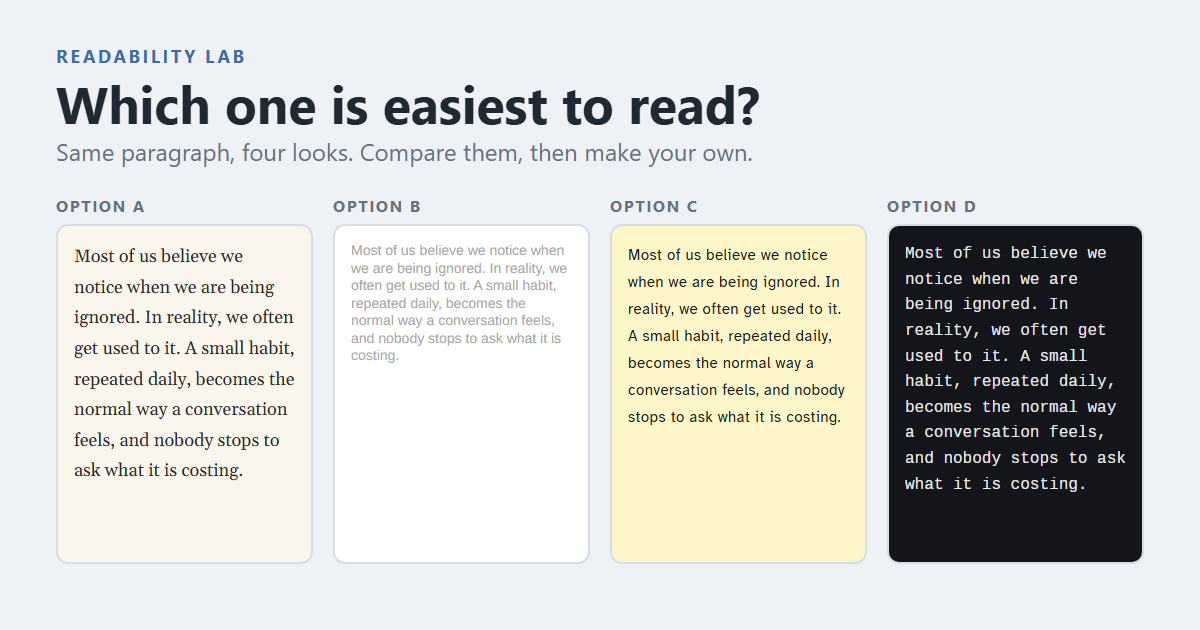
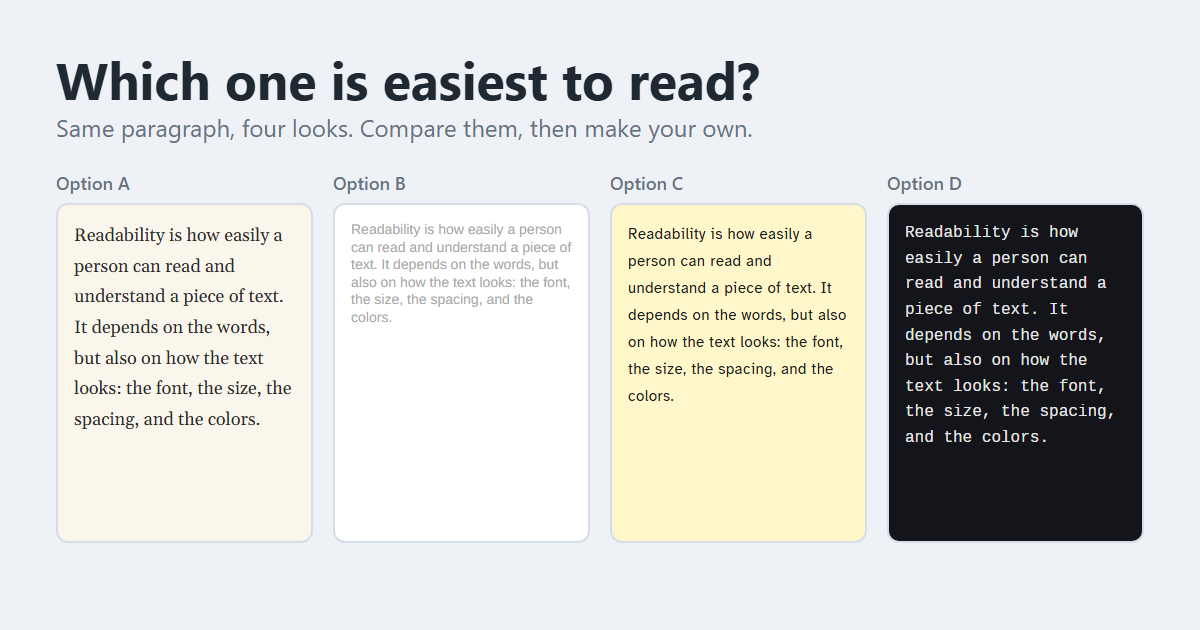
Update sample text, labels, and copy

Changed region(s): [[0.0308, 0.0603, 0.9558, 0.7841], [0.2775, 0.8444, 0.9558, 0.9048], [0.0617, 0.8444, 0.2467, 0.8746]]

diff --git a/index.html b/index.html
@@ -25,9 +25,8 @@
 
 <body>
   <main>
-    <div class="eyebrow">Readability Lab</div>
     <h1>Which one is easiest to read?</h1>
-    <p class="intro">Same paragraph, four looks. Read each one, then pick the one that takes the least effort.</p>
+    <p class="intro">Same paragraph, shown four ways. Which one is easiest on your eyes?</p>
 
     <div class="tab-bar" role="tablist">
       <button type="button" class="tab" id="compareTab" role="tab" aria-selected="true"
@@ -38,49 +37,47 @@
 
     <div id="comparePanel" role="tabpanel" aria-labelledby="compareTab">
       <div class="card" data-id="a">
-        <div class="card-label">OPTION A</div>
+        <div class="card-label">Option A</div>
         <div class="sample a">
-          <p>Most of us believe we notice when we are being ignored. In reality, we often get used to it. A small habit,
-            repeated daily, becomes the normal way a conversation feels, and nobody stops to ask what it is costing.</p>
+          <p>Readability is how easily a person can read and understand a piece of text. It depends on the words, but also on how the text looks: the font, the size, the spacing, and the colors.</p>
         </div>
       </div>
 
       <div class="card" data-id="b">
-        <div class="card-label">OPTION B</div>
+        <div class="card-label">Option B</div>
         <div class="sample b">
-          <p>Most of us believe we notice when we are being ignored. In reality, we often get used to it. A small habit,
-            repeated daily, becomes the normal way a conversation feels, and nobody stops to ask what it is costing.</p>
+          <p>Readability is how easily a person can read and understand a piece of text. It depends on the words, but also on how the text looks: the font, the size, the spacing, and the colors.</p>
         </div>
       </div>
 
       <div class="card" data-id="c">
-        <div class="card-label">OPTION C</div>
+        <div class="card-label">Option C</div>
         <div class="sample c">
-          <p>Most of us believe we notice when we are being ignored. In reality, we often get used to it. A small habit,
-            repeated daily, becomes the normal way a conversation feels, and nobody stops to ask what it is costing.</p>
+          <p>Readability is how easily a person can read and understand a piece of text. It depends on the words, but also on how the text looks: the font, the size, the spacing, and the colors.</p>
         </div>
       </div>
 
       <div class="card" data-id="d">
-        <div class="card-label">OPTION D</div>
+        <div class="card-label">Option D</div>
         <div class="sample d">
-          <p>Most of us believe we notice when we are being ignored. In reality, we often get used to it. A small habit,
-            repeated daily, becomes the normal way a conversation feels, and nobody stops to ask what it is costing.</p>
+          <p>Readability is how easily a person can read and understand a piece of text. It depends on the words, but also on how the text looks: the font, the size, the spacing, and the colors.</p>
         </div>
       </div>
 
-      <button type="button" class="next-button" id="nextButton">Now make your own</button>
+      <button type="button" class="next-button" id="nextButton">Try making your own</button>
     </div>
 
     <section class="tuner" id="tunerPanel" role="tabpanel" aria-labelledby="tunerTab" hidden>
-      <p class="intro">Change anything below until the paragraph feels comfortable to read.</p>
+      <p class="intro">Play with the settings until it's comfortable to read.</p>
 
-      <textarea class="tuner-sample" id="tunerSample" maxlength="600" rows="1" spellcheck="false"
-        aria-label="Sample text. Tap to edit it."></textarea>
+      <div class="sample-box" id="sampleBox">
+        <textarea class="tuner-sample" id="tunerSample" maxlength="600" rows="1" spellcheck="false"
+          aria-label="Sample text. Tap to edit it."></textarea>
+        <span class="char-count" id="charCount"></span>
+      </div>
       <div class="sample-hint">
-        <span>Tap the text above to edit it</span>
-        <span><button type="button" class="link-button" id="sampleResetButton">Use sample text</button>
-          <span id="charCount"></span></span>
+        <span>You can edit this text</span>
+        <button type="button" class="link-button" id="sampleResetButton">Reset text</button>
       </div>
 
       <div class="option-group">
@@ -173,8 +170,8 @@
         <div class="group-label">Your setup</div>
         <div class="setup-summary" id="setupSummary"></div>
         <button type="button" class="copy-button" id="copyButton">Copy my setup</button>
-        <button type="button" class="reset-button" id="resetButton">Reset to start</button>
-        <p class="copy-hint">Tap Copy, then paste it in our chat so I can see what works for you.</p>
+        <button type="button" class="reset-button" id="resetButton">Reset options</button>
+        <p class="copy-hint">Press Copy and send it to me. I'd like to see what you picked.</p>
       </div>
     </section>
 
@@ -224,10 +221,10 @@
 
     const setup = { ...defaultSetup };
 
-    const defaultSampleText = "Most of us believe we notice when we are being ignored. In reality, we often get used to it. " +
-      "A small habit, repeated daily, becomes the normal way a conversation feels, " +
-      "and nobody stops to ask what it is costing.";
+    const defaultSampleText = "Readability is how easily a person can read and understand a piece of text. " +
+      "It depends on the words, but also on how the text looks: the font, the size, the spacing, and the colors.";
 
+    const sampleBox = document.getElementById("sampleBox");
     const tunerSample = document.getElementById("tunerSample");
     const sampleResetButton = document.getElementById("sampleResetButton");
     const charCount = document.getElementById("charCount");
@@ -356,7 +353,11 @@
       tunerSample.style.lineHeight = setup.spacing;
       tunerSample.style.letterSpacing = setup.letterSpacing + "em";
       tunerSample.style.wordSpacing = setup.wordSpacing + "em";
-      tunerSample.style.maxWidth = setup.width + "ch";
+      sampleBox.style.fontFamily = fontFamilies[setup.font];
+      sampleBox.style.fontSize = setup.size + "px";
+      sampleBox.style.maxWidth = setup.width + "ch";
+      charCount.style.color = setup.textColor;
+      charCount.style.background = setup.backgroundColor;
       tunerSample.style.textAlign = setup.align;
       tunerSample.style.background = setup.backgroundColor;
       tunerSample.style.color = setup.textColor;
@@ -595,14 +596,6 @@
     padding: 40px 16px 80px;
   }
 
-  .eyebrow {
-    font-size: 12px;
-    letter-spacing: 0.12em;
-    text-transform: uppercase;
-    color: var(--accent);
-    font-weight: 600;
-  }
-
   h1 {
     font-size: 34px;
     margin: 6px 0 12px;
@@ -631,9 +624,8 @@
   }
 
   .card-label {
-    font-size: 12px;
-    font-weight: 700;
-    letter-spacing: 0.1em;
+    font-size: 15px;
+    font-weight: 600;
     color: var(--muted);
     margin-bottom: 10px;
   }
@@ -734,18 +726,35 @@
     line-height: 1.2;
   }
 
-  .tuner-sample {
-    display: block;
+  .sample-box {
     position: sticky;
     top: 8px;
     z-index: 10;
+    width: 100%;
+    margin: 0 auto;
+  }
+
+  .char-count {
+    position: absolute;
+    right: 14px;
+    bottom: 10px;
+    padding: 1px 6px;
+    border-radius: 6px;
+    font-size: 12px;
+    font-variant-numeric: tabular-nums;
+    opacity: 0.75;
+    pointer-events: none;
+  }
+
+  .tuner-sample {
+    display: block;
     width: 100%;
     max-height: 40vh;
     overflow-y: auto;
     resize: none;
     border-radius: 10px;
-    padding: 18px;
-    margin: 0 auto;
+    padding: 18px 18px 34px;
+    margin: 0;
     border: 2px solid var(--card-border);
     box-shadow: 0 4px 14px rgba(31, 41, 51, 0.12);
     transition: background-color 0.25s ease, color 0.25s ease;
@@ -761,21 +770,25 @@
     justify-content: space-between;
     align-items: center;
     gap: 12px;
-    margin: 10px 0 24px;
+    margin: 6px 0 20px;
     font-size: 13px;
     color: var(--muted);
   }
 
   .link-button {
-    padding: 8px 0;
+    flex-shrink: 0;
+    min-height: 44px;
+    margin: 0;
+    padding: 0;
     font-family: inherit;
-    font-size: 13px;
+    font-size: 15px;
     font-weight: 600;
     color: var(--accent);
     background: none;
     border: none;
     cursor: pointer;
   }
+
 
   @media (prefers-reduced-motion: reduce) {
 
@@ -957,10 +970,8 @@
   }
 
   .group-label {
-    font-size: 12px;
-    font-weight: 700;
-    letter-spacing: 0.12em;
-    text-transform: uppercase;
+    font-size: 16px;
+    font-weight: 600;
     color: var(--muted);
     margin-bottom: 16px;
   }
